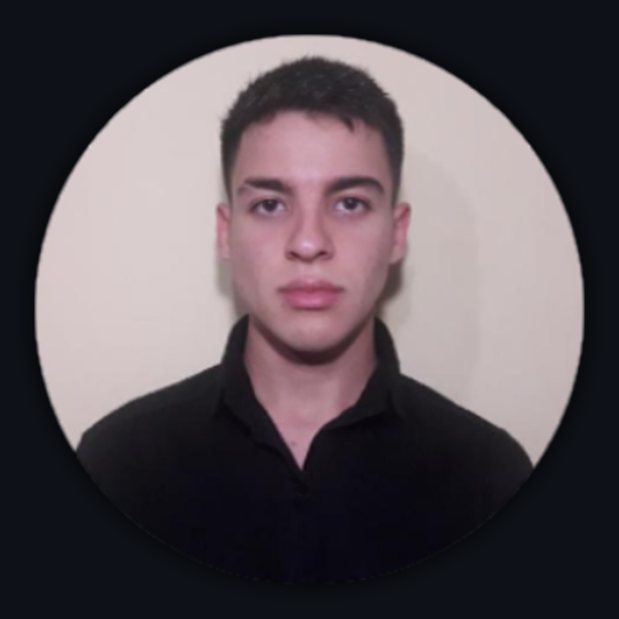
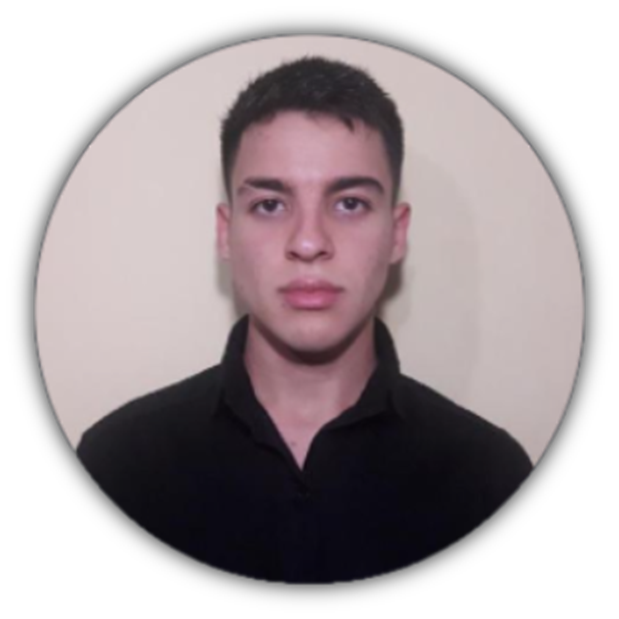
Update image link and welcome message in streamlit.py

diff --git a/streamlit.py b/streamlit.py
@@ -147,7 +147,7 @@ if tabs == "Home":
             "profesion": "Machine Learning Engineer",
             "github": "https://github.com/Facundo022",
             "linkedin": "https://www.linkedin.com/in/facundo-nicolas-denis-60933b199/",
-            "imagen_link": "images/image1.png",
+            "imagen_link": "images/Facu.png",
         },
         {
             "nombre": "Cristhian Huanqui",
